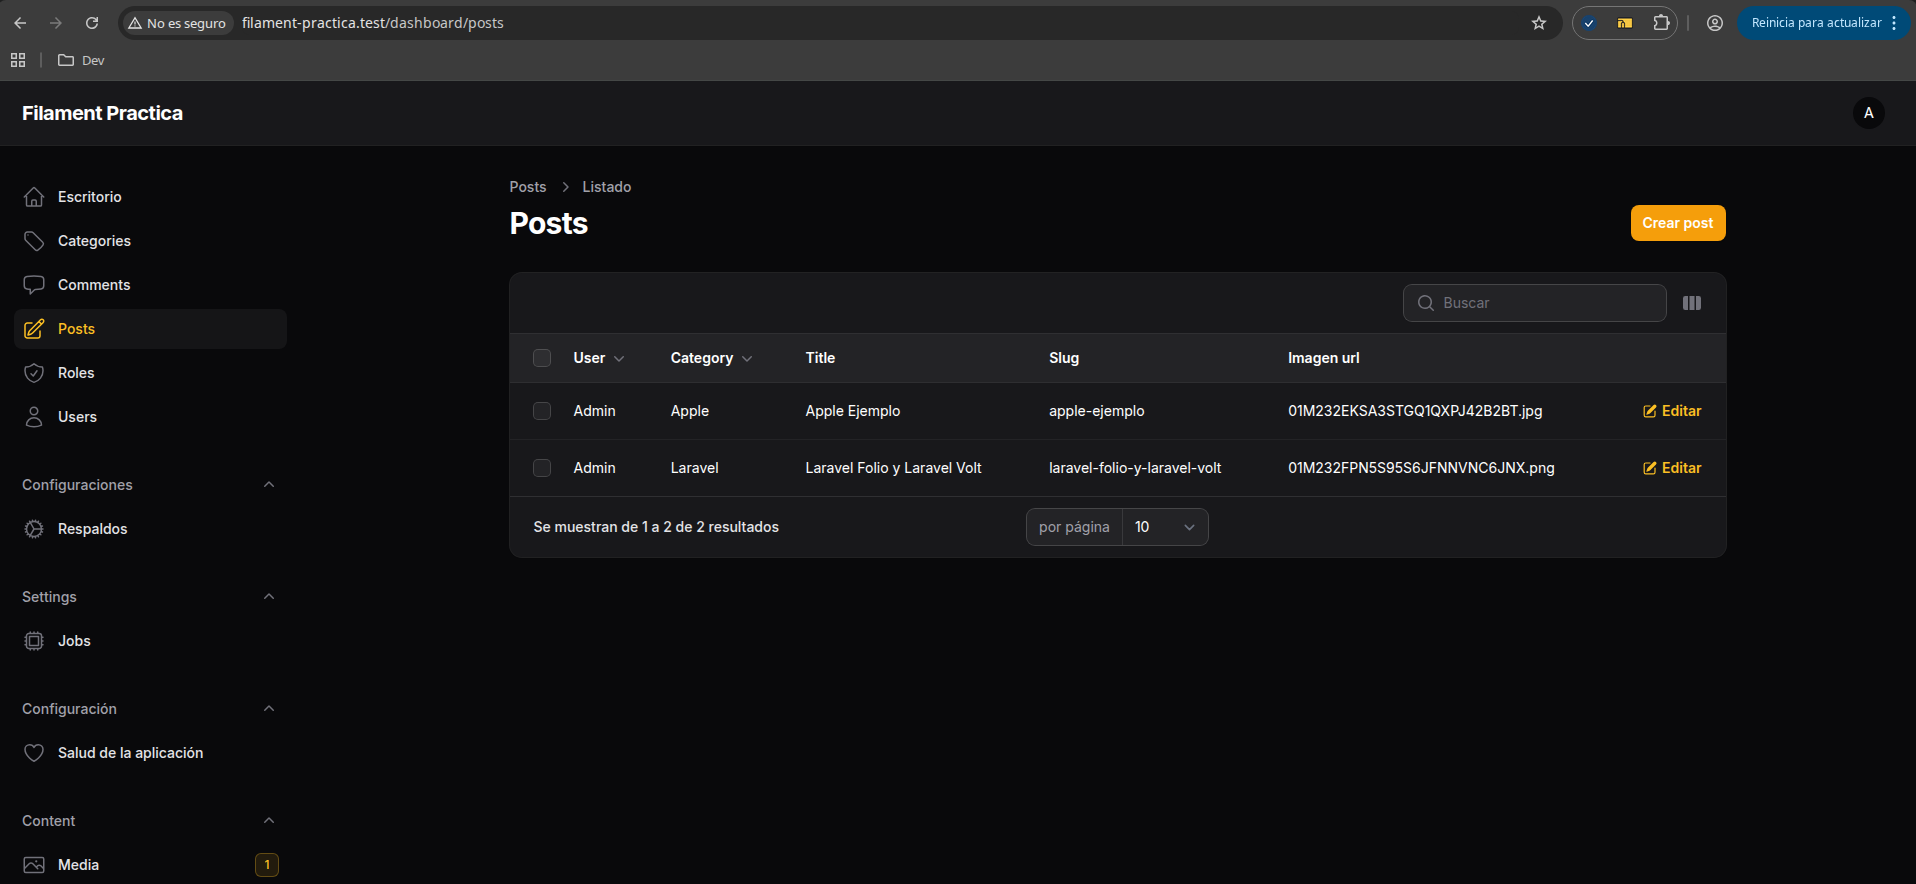
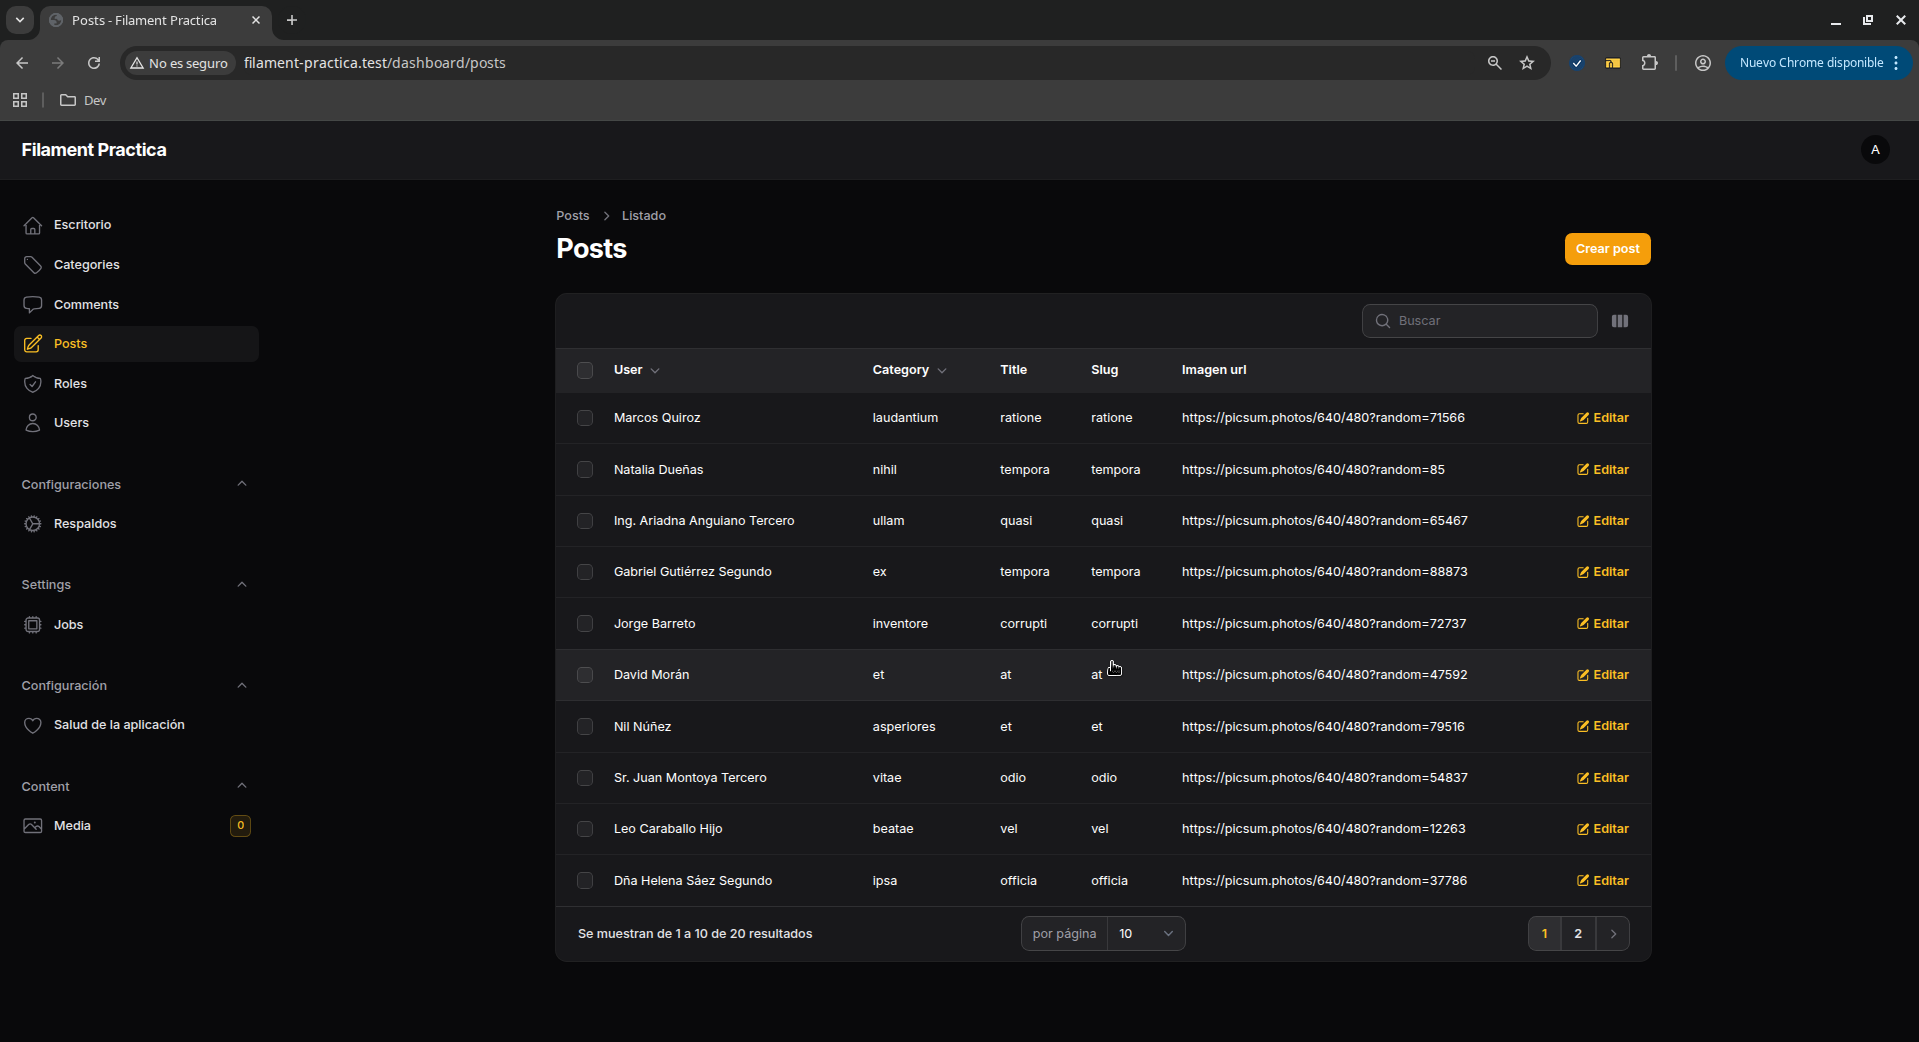
Updated README

diff --git a/README.md b/README.md
@@ -11,8 +11,10 @@ Proyecto de aprendizaje construido siguiendo un curso de YouTube sobre **Filamen
 - [Tecnologías utilizadas](#tecnologías-utilizadas)
 - [Paquetes instalados y para qué sirve cada uno](#paquetes-instalados-y-para-qué-sirve-cada-uno)
 - [Estructura del proyecto](#estructura-del-proyecto)
+- [Rutas públicas](#rutas-públicas)
 - [Modelos y relaciones](#modelos-y-relaciones)
 - [Autorización (Policies)](#autorización-policies)
+- [Roles y usuarios de acceso](#roles-y-usuarios-de-acceso)
 - [Cómo levantar el proyecto en local](#cómo-levantar-el-proyecto-en-local)
 - [Comandos útiles de Filament / Laravel](#comandos-útiles-de-filament--laravel)
 - [Notas y particularidades de esta instalación](#notas-y-particularidades-de-esta-instalación)
@@ -32,11 +34,17 @@ Qué se practica aquí:
 - Gestión de **roles y permisos** con Spatie Permission.
 - Gestión de **medios/imágenes** con un plugin dedicado.
 - Integración de plugins de terceros de la comunidad Filament (backups, monitorización de estado, monitor de colas, exportación a Excel).
-- Una capa pública mínima (Controller + Blade + Tailwind) para mostrar los posts gestionados desde el panel.
+- Una parte pública en Blade con tres secciones separadas, cada una con su propio controlador (patrón `index`/`show`):
+  - **Inicio** (`/`): landing con la descripción del proyecto y accesos rápidos a Noticias y Categorías.
+  - **Noticias** (`/posts`): listado completo de posts, con su vista de detalle (`/posts/{slug}`).
+  - **Categorías** (`/categories`): listado de categorías con nº de posts, y detalle de los posts de cada una (`/categories/{id}`).
+- **Componentes Blade** (`<x-nav>`, `<x-footer>`) reutilizados en las cinco vistas públicas, para no repetir el menú ni el pie en cada archivo.
 
 ---
 
 ## Capturas de pantalla
+
+> Todas las capturas incluyen la barra de dirección del navegador (con la URL visible) para que se vea claramente qué ruta corresponde a cada pantalla — recorta el resto de la ventana (VirtualBox, barra de marcadores) para que quede limpio.
 
 **Panel de administración — pantalla de acceso**
 
@@ -59,17 +67,54 @@ Qué se practica aquí:
   </tr>
 </table>
 
-**Parte pública del sitio**
+**Panel de administración — roles y permisos**
 
 <table>
   <tr>
     <td width="50%">
-      <img src="docs/screenshots/listado_publico_posts.png" alt="Listado público de noticias">
-      <p align="center"><sub>Listado público de noticias — <code>/</code></sub></p>
+      <img src="docs/screenshots/menu_admin.png" alt="Menú del panel con sesión de Admin">
+      <p align="center"><sub>Menú lateral con sesión de <strong>Admin</strong> — incluye Usuarios y Roles</sub></p>
     </td>
     <td width="50%">
-      <img src="docs/screenshots/post_publico.png" alt="Vista pública de un post individual">
-      <p align="center"><sub>Post individual con sus comentarios</sub></p>
+      <img src="docs/screenshots/menu_editor.png" alt="Menú del panel con sesión de Editor">
+      <p align="center"><sub>Menú lateral con sesión de <strong>Editor</strong> — sin Usuarios ni Roles</sub></p>
+    </td>
+  </tr>
+</table>
+
+**Parte pública — Inicio**
+
+<img src="docs/screenshots/home.png" alt="Landing pública del proyecto" width="700">
+<p align="center"><sub>Landing con la descripción del proyecto y accesos a Noticias/Categorías — <code>/</code></sub></p>
+
+<br>
+
+**Parte pública — Noticias**
+
+<table>
+  <tr>
+    <td width="50%">
+      <img src="docs/screenshots/posts_index.png" alt="Listado público de noticias">
+      <p align="center"><sub>Listado de posts — <code>/posts</code></sub></p>
+    </td>
+    <td width="50%">
+      <img src="docs/screenshots/post_show.png" alt="Vista pública de un post individual">
+      <p align="center"><sub>Post individual con sus comentarios — <code>/posts/{slug}</code></sub></p>
+    </td>
+  </tr>
+</table>
+
+**Parte pública — Categorías**
+
+<table>
+  <tr>
+    <td width="50%">
+      <img src="docs/screenshots/categories_index.png" alt="Listado de categorías">
+      <p align="center"><sub>Listado de categorías con nº de posts — <code>/categories</code></sub></p>
+    </td>
+    <td width="50%">
+      <img src="docs/screenshots/categories_show.png" alt="Posts filtrados por categoría">
+      <p align="center"><sub>Posts de una categoría concreta — <code>/categories/{id}</code></sub></p>
     </td>
   </tr>
 </table>
@@ -127,7 +172,9 @@ Se documentan únicamente los directorios/archivos **generados manualmente** dur
 ```
 app/
 ├── Http/Controllers/
-│   └── HomeController.php          # Controlador de la parte pública (index = listado, view = post individual)
+│   ├── HomeController.php          # Landing pública ("/")
+│   ├── PostController.php          # Listado y detalle de posts ("/posts", "/posts/{slug}")
+│   └── CategoryController.php      # Listado y detalle de categorías ("/categories", "/categories/{id}")
 ├── Models/
 │   ├── Post.php                    # Modelo de noticias
 │   ├── Category.php                # Categoría de un post
@@ -147,18 +194,47 @@ app/
 │       └── RoleResource.php                          # CRUD de roles
 
 resources/views/
-├── home.blade.php                  # Listado público de posts (Tailwind, tarjetas)
-└── view.blade.php                  # Vista pública de un post individual + comentarios
+├── components/
+│   ├── nav.blade.php               # Menú de navegación, reutilizado en todas las páginas públicas
+│   └── footer.blade.php            # Pie de página, reutilizado en todas las páginas públicas
+├── home.blade.php                  # Landing pública
+├── posts/
+│   ├── index.blade.php             # Listado de posts
+│   └── show.blade.php              # Post individual + comentarios
+└── categories/
+    ├── index.blade.php             # Listado de categorías
+    └── show.blade.php              # Posts de una categoría concreta
 
-routes/web.php                      # Rutas públicas: "/" (listado) y "/{slug}" (post individual)
+routes/web.php                      # Rutas públicas: home, posts.index/show, categories.index/show
 
-database/migrations/
-├── ..._create_categories_table.php
-├── ..._create_posts_table.php
-└── ..._create_comments_table.php
+database/
+├── factories/
+│   ├── PostFactory.php
+│   ├── CategoryFactory.php
+│   └── CommentFactory.php
+├── seeders/
+│   └── DatabaseSeeder.php          # Crea roles, usuarios de prueba (admin/editor) y datos ficticios
+└── migrations/
+    ├── ..._create_categories_table.php
+    ├── ..._create_posts_table.php
+    └── ..._create_comments_table.php
 ```
 
 Las migraciones de `permission_tables`, `media_table`, `health_tables` y `filament-jobs-monitor_table` las genera cada paquete respectivo (`vendor:publish`) y no se han modificado a mano.
+
+---
+
+## Rutas públicas
+
+| Método | URI | Nombre | Controlador |
+|---|---|---|---|
+| GET | `/` | `home` | `HomeController@index` |
+| GET | `/posts` | `posts.index` | `PostController@index` |
+| GET | `/posts/{post:slug}` | `posts.show` | `PostController@show` |
+| GET | `/categories` | `categories.index` | `CategoryController@index` |
+| GET | `/categories/{category}` | `categories.show` | `CategoryController@show` |
+
+`/posts/{post:slug}` usa **Route Model Binding** por la columna `slug` en vez del `id` por defecto — la resolución del modelo la hace la ruta, no el controlador.
 
 ---
 
@@ -222,6 +298,34 @@ En este proyecto hay dos:
 Filament respeta estas Policies automáticamente: si un usuario sin el rol `Admin` intenta entrar a `/dashboard/users` o `/dashboard/roles`, el Resource correspondiente ni siquiera se muestra en el menú.
 
 > **Nota de aprendizaje**: el nombre de la clase debe coincidir exactamente con el patrón `NombreDelModelo` + `Policy` para que Laravel la detecte sola. Un simple error de tipeo en el nombre de la clase (por ejemplo `USerPolicy` en vez de `UserPolicy`) hace que Laravel no la reconozca y la ignore silenciosamente, sin lanzar ningún error — el fallo es puramente de convención de nombre, no de sintaxis.
+
+---
+
+## Roles y usuarios de acceso
+
+El `DatabaseSeeder` crea dos roles (vía `spatie/laravel-permission`) y un usuario de ejemplo para cada uno.
+
+| Rol | Qué puede hacer | Qué NO puede hacer |
+|---|---|---|
+| **Admin** | Todo: gestionar Posts, Categorías, Comentarios, y además **Usuarios** y **Roles** | — |
+| **Editor** | Gestionar Posts, Categorías y Comentarios (no hay Policy que lo restrinja ahí, así que Filament lo permite por defecto) | Entrar a los Resources de **Usuarios** y **Roles** — `UserPolicy` y `RolePolicy` exigen el rol `Admin`, así que esos dos elementos del menú ni siquiera aparecen para un Editor |
+
+Es decir: la diferencia entre ambos roles en este proyecto se reduce exactamente a lo que cubren `UserPolicy` y `RolePolicy` — como no existe ninguna Policy para `Post`, `Category` ni `Comment`, un Editor tiene acceso completo a esos tres Resources igual que un Admin.
+
+### Usuarios de prueba (creados por el seeder)
+
+| Rol | Email | Contraseña |
+|---|---|---|
+| Admin | `admin@example.com` | `admin` |
+| Editor | `editor@example.com` | `editor` |
+
+También existe un tercer usuario, `test@example.com` (contraseña generada por la factory, sin rol asignado), útil para comprobar qué ve alguien **sin ningún rol**: no vería ni Usuarios ni Roles en el menú, igual que un Editor.
+
+```bash
+php artisan migrate:fresh --seed
+```
+
+recrea estos tres usuarios desde cero cada vez.
 
 ---
 
@@ -364,6 +468,11 @@ php artisan make:filament-user
 # Crea un usuario con acceso al panel de Filament.
 # Hay que volver a ejecutarlo cada vez que se reinician las migraciones (migrate:fresh),
 # ya que ese comando borra también la tabla de usuarios.
+
+php artisan migrate:fresh --seed
+# Recrea todas las tablas y las puebla con datos de ejemplo (roles, usuarios admin/editor,
+# posts, categorías y comentarios ficticios) usando las factories y el DatabaseSeeder.
+# Ya no hace falta ejecutar make:filament-user aparte: el seeder crea admin@example.com / admin.
 ```
 
 ---
@@ -375,3 +484,5 @@ php artisan make:filament-user
 - **PHP y Composer**: el host (VM) y el contenedor `php-fpm` deben tener la **misma versión de PHP** — un desajuste entre ambos (por ejemplo tras reconstruir la imagen) provoca errores de Composer del tipo "Your Composer dependencies require a PHP version...".
 - **Registro duplicado de plugin**: en `app/Providers/Filament/AdminPanelProvider.php`, el bloque `->plugins([ CuratorPlugin::make()... ])` aparece registrado dos veces (una vez junto a `FilamentJobsMonitorPlugin`, y otra vez suelto más abajo). Es redundante pero no rompe nada — Filament simplemente reinstancia el mismo plugin dos veces. Queda como nota de aprendizaje: al ir añadiendo plugins en distintos momentos del curso, es fácil duplicar un bloque en vez de añadir la nueva entrada al array ya existente. Pendiente de limpieza.
 - **Trabajos en cola sin implementar**: no hay ningún Job en background creado todavía, así que `croustibat/filament-jobs-monitor` está instalado pero sin nada real que monitorizar (`/dashboard/queue-monitors` aparecerá vacío hasta que se despache algún Job).
+- **Vista huérfana `resources/views/view.blade.php`**: es la vista de detalle de post de antes de separar la parte pública en `home` / `posts` / `categories`. Ninguna ruta ni controlador la referencia ya (la sustituyó `posts/show.blade.php`) — sigue en el repo pero no se usa. Pendiente de borrar.
+- **Categorías generadas por el `PostFactory`**: como cada post del seeder crea su propia categoría con `Category::factory()` en vez de reutilizar un conjunto fijo, cada `migrate:fresh --seed` genera hasta 20 categorías distintas (una por post) en lugar de un puñado de categorías compartidas entre varios posts. Es intencionado para el ejercicio, pero si se quiere un catálogo de categorías más realista habría que crearlas antes en el seeder y asignarlas con `Category::inRandomOrder()->first()`.
